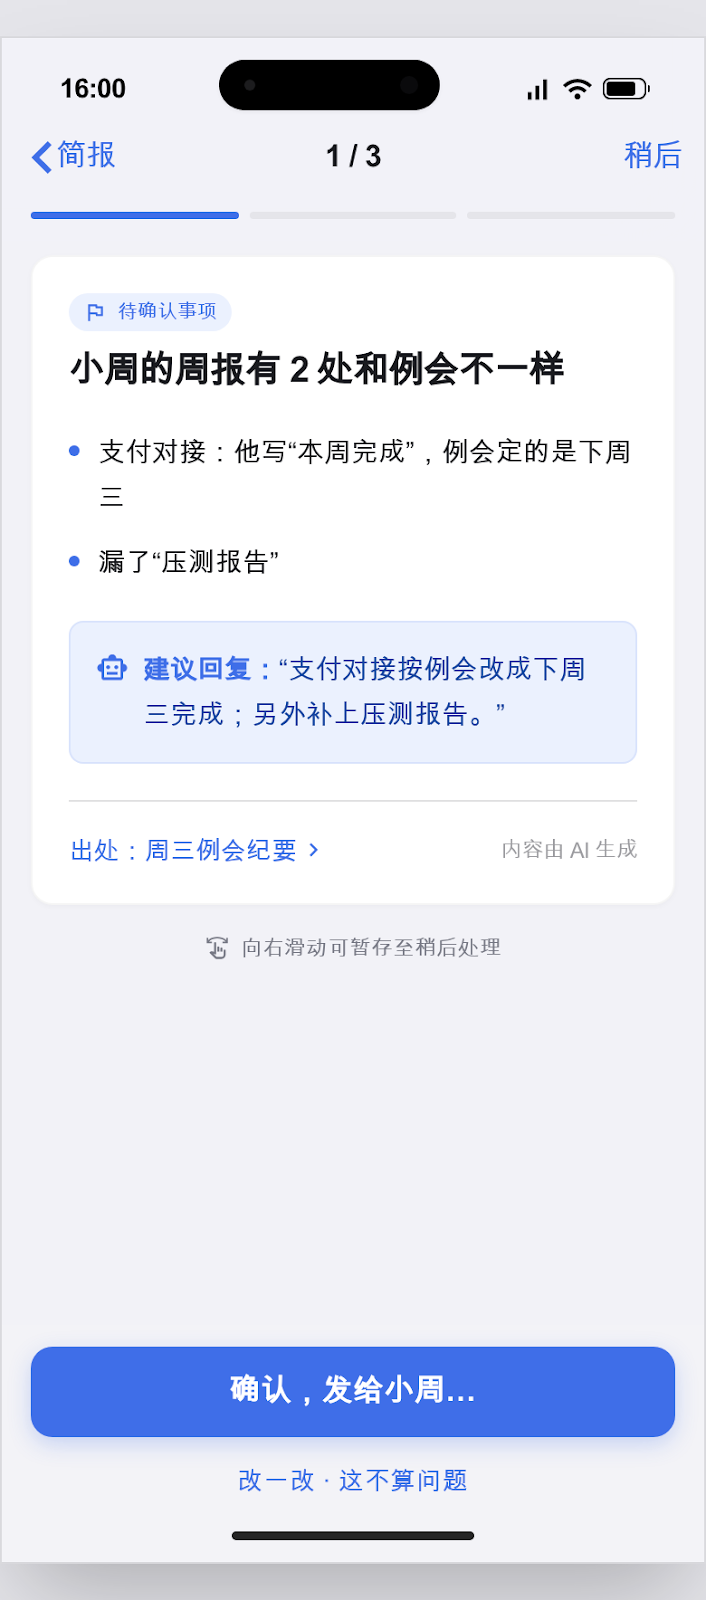
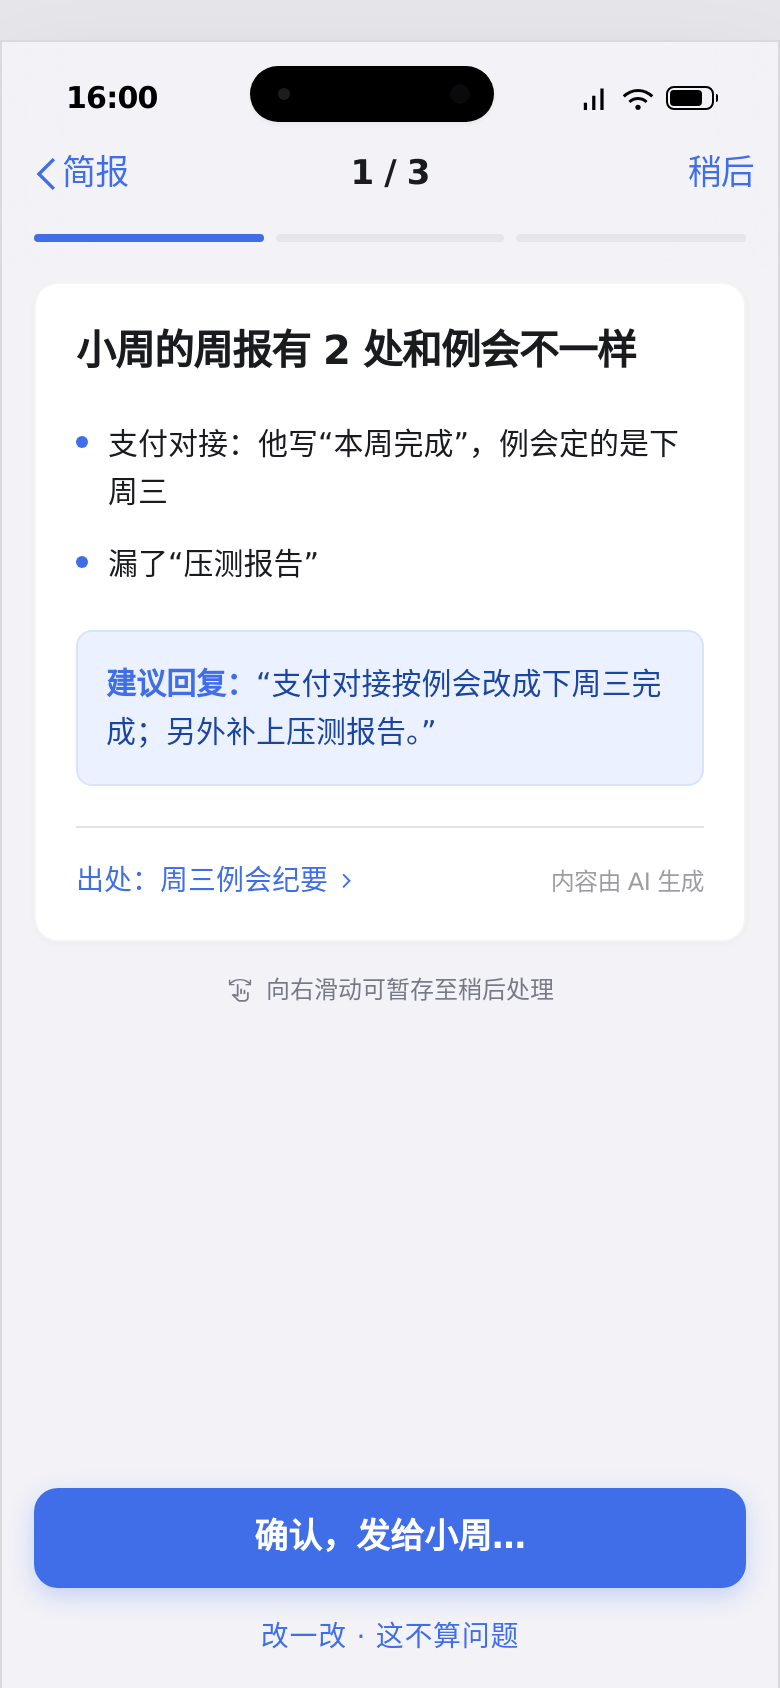
ITER1 v7：app-ios 6 屏按评审意见直接修改（下拉面板、去多余按钮和标签、图标与字体）

diff --git a/public/ITER1/v7-sketch/app-ios/04-下拉面板/code.html b/public/ITER1/v7-sketch/app-ios/04-下拉面板/code.html
@@ -125,68 +125,30 @@
       min-height: max(884px, 100dvh);
     }
   </style>
-  </head>
+  <style id="ios-fix">
+body *:not(.material-symbols-outlined){font-family:-apple-system,BlinkMacSystemFont,"SF Pro Text","PingFang SC","Noto Sans SC",sans-serif !important}
+.material-symbols-outlined{font-variation-settings:'FILL' 0,'wght' 300,'GRAD' 0,'opsz' 24 !important}
+</style>
+</head>
 <body class="bg-background text-on-surface antialiased flex justify-center items-center min-h-screen select-none font-body">
 <!-- iPhone 15 Pro Frame 390x844 -->
-<div class="relative w-[390px] h-[844px] bg-[#F2F2F7] rounded-[54px] shadow-2xl overflow-hidden border-[7px] border-[#2C2C2E] flex flex-col justify-between">
+<div class="relative w-[390px] h-[844px] bg-[#F2F2F7] overflow-hidden flex flex-col justify-between">
 <!-- 1. 背景层：页面 ① 的内容呈现 (带背景毛玻璃虚化感) -->
 <div class="absolute inset-0 z-0 bg-[#F2F2F7] flex flex-col pointer-events-none select-none">
-<!-- 页面 1 Header 占位 -->
-<div class="pt-14 px-4 pb-3 flex justify-between items-center">
-<div class="flex items-center gap-2">
-<div class="w-8 h-8 rounded-full bg-primary-container text-white flex items-center justify-center font-headline text-callout">禾</div>
-<span class="font-title-3 text-title-3 text-on-surface">管家</span>
-</div>
-<div class="w-9 h-9 rounded-full bg-white flex items-center justify-center shadow-sm">
-<span class="material-symbols-outlined text-outline">history</span>
-</div>
-</div>
-<!-- 页面 1 对话/助手卡片流内容模拟 (底层被弱化呈现) -->
-<div class="px-4 space-y-4 pt-3">
-<!-- 欢迎卡片 Bento -->
-<div class="bg-white rounded-2xl p-4 shadow-sm">
-<div class="flex items-center gap-2 mb-2">
-<span class="w-2 h-2 rounded-full bg-[#34C759]"></span>
-<span class="text-caption-1 font-caption-1 text-outline">今天 09:41 · 主动服务已就绪</span>
-</div>
-<div class="text-headline font-headline text-on-surface mb-1">早安，张工</div>
-<div class="text-subheadline font-subheadline text-outline leading-relaxed">
-            今天上午 10:30 有“年度产品架构评审”，准备资料已为您备好。
-          </div>
-</div>
-<!-- Bento Grid 示例 -->
-<div class="grid grid-cols-2 gap-3">
-<div class="bg-white p-3.5 rounded-2xl shadow-sm">
-<div class="text-caption-1 font-caption-1 text-outline mb-1">待办事项</div>
-<div class="text-title-3 font-title-3 text-primary">3 项紧急</div>
-<div class="text-caption-1 font-caption-1 text-on-surface-variant mt-2">已同步飞书日历</div>
-</div>
-<div class="bg-white p-3.5 rounded-2xl shadow-sm">
-<div class="text-caption-1 font-caption-1 text-outline mb-1">资料收集</div>
-<div class="text-title-3 font-title-3 text-secondary">86 份归档</div>
-<div class="text-caption-1 font-caption-1 text-on-surface-variant mt-2">新存 2 个汇报PPT</div>
-</div>
-</div>
-<!-- 助手气泡模拟 -->
-<div class="flex gap-2.5 items-start mt-2">
-<div class="w-7 h-7 rounded-full bg-primary-container text-white flex items-center justify-center font-subheadline text-xs flex-shrink-0 mt-0.5">禾</div>
-<div class="bg-white rounded-2xl rounded-tl-sm p-3.5 shadow-sm max-w-[270px]">
-<p class="text-subheadline font-subheadline text-on-surface">需要我把今天的要点梳理出来发给团队吗？</p>
-</div>
-</div>
-</div>
+<div class="pt-14 px-4 pb-2 flex items-center"><div class="flex items-center gap-2 bg-[#EBF1FE] rounded-full pl-1 pr-3 py-1"><div class="w-6 h-6 rounded-full bg-primary-container text-white flex items-center justify-center text-[12px]">禾</div><span class="text-[14px] text-primary-container font-semibold">管家 ▾</span></div></div>
+<div class="px-5 pt-14"><div class="text-[28px] font-bold text-on-surface">下午好，陆航</div><div class="text-[17px] text-on-surface mt-1 leading-relaxed">有 <b class="text-primary-container">3 件</b>我已经备好了办法，<br>等你确认一下，大约 2 分钟。</div></div>
+<div class="mx-4 mt-4 bg-white rounded-xl divide-y divide-[rgba(60,60,67,0.12)]">
+<div class="px-4 py-3 text-[16px]">1　小周的周报</div><div class="px-4 py-3 text-[16px]">2　客户问能否提前上线</div><div class="px-4 py-3 text-[16px]">3　团队周报，18:00 前交</div></div>
+<div class="absolute left-4 right-4 bottom-[110px] flex gap-2"><div class="flex-[7] h-[50px] rounded-xl bg-primary-container text-white flex items-center justify-center text-[17px] font-semibold">开始</div><div class="flex-[3] h-[50px] rounded-xl bg-[#E5E5EA] text-primary-container flex items-center justify-center text-[17px] font-semibold">说一句</div></div>
 </div>
 <!-- 2. 全局半透明深色压暗遮罩 (rgba(0,0,0,0.4)) -->
 <div class="absolute inset-0 bg-black/40 z-10 backdrop-blur-[2px] transition-opacity duration-300"></div>
 <!-- 3. iOS 原生状态栏与灵动岛 (Dynamic Island) 处于遮罩上方或穿透保持清晰 -->
 <div class="relative z-30 pt-3 px-7 flex justify-between items-center text-white font-headline text-footnote tracking-tight">
-<span class="font-headline text-[15px] font-semibold text-white drop-shadow-sm">09:41</span>
+<span class="font-headline text-[15px] font-semibold text-white drop-shadow-sm">16:00</span>
 <!-- 灵动岛 (Dynamic Island 126x36) -->
 <div class="w-[126px] h-[36px] bg-black rounded-full absolute left-1/2 -translate-x-1/2 top-2.5 flex items-center justify-between px-3 shadow-md border border-white/10">
-<div class="flex items-center gap-1.5">
-<div class="w-2.5 h-2.5 rounded-full bg-[#34C759] animate-pulse"></div>
-<span class="text-[11px] text-white/90 font-medium">管家运行</span>
-</div>
+<div></div>
 <div class="w-3 h-3 rounded-full bg-[#1C1C1E] border border-white/20 flex items-center justify-center">
 <div class="w-1.5 h-1.5 rounded-full bg-[#0A84FF]"></div>
 </div>
@@ -210,10 +172,7 @@
 <span class="text-subheadline font-headline text-on-surface font-semibold tracking-tight">管家</span>
 <span class="text-[10px] text-on-surface-variant font-bold leading-none ml-[-2px]">▲</span>
 </button>
-<!-- 右侧辅助按钮 (半透浅白) -->
-<div class="w-8 h-8 rounded-full bg-white/20 backdrop-blur-md flex items-center justify-center text-white active:opacity-70 transition-opacity">
-<span class="material-symbols-outlined text-[20px]">more_horiz</span>
-</div>
+
 </div>
 <!-- 从顶部顺畅滑出的白色圆角面板 (不透明纯白 #FFFFFF，圆角 16px，自然柔和原生系统阴影) -->
 <div class="mx-4 mt-1 bg-white rounded-[16px] ios-drop-shadow overflow-hidden border border-black/5 animate-in fade-in slide-in-from-top-4 duration-200">
@@ -222,7 +181,7 @@
 <div class="h-9 bg-[#E5E5EA] rounded-[10px] flex items-center px-3 gap-2">
 <span class="material-symbols-outlined text-[#8E8E93] text-[18px]">search</span>
 <input class="w-full bg-transparent border-0 p-0 text-subheadline font-subheadline text-on-surface placeholder-[#8E8E93] focus:ring-0 text-[14px]" placeholder="搜资料、事情、说过的话…" readonly="" type="text"/>
-<span class="material-symbols-outlined text-[#8E8E93] text-[18px] cursor-pointer">mic</span>
+
 </div>
 </div>
 <!-- 5 行 iOS Inset Grouped 风格列表项 -->
@@ -310,7 +269,7 @@
 <div class="bg-surface/85 backdrop-blur-2xl flex justify-around items-center px-4 pt-2 pb-2 border-t border-outline-variant/20 shadow-lg">
 <!-- 标签 1: 管家 (激活状态) -->
 <div class="flex flex-col items-center justify-center text-primary cursor-pointer">
-<span class="material-symbols-outlined text-[24px]">smart_toy</span>
+<span class="material-symbols-outlined text-[24px]">home</span>
 <span class="text-caption-2 font-caption-2 mt-0.5 font-semibold">管家</span>
 </div>
 <!-- 标签 2: 盯着 (未激活) -->

diff --git a/public/ITER1/v7-sketch/app-ios/03-结束页/code.html b/public/ITER1/v7-sketch/app-ios/03-结束页/code.html
@@ -145,7 +145,11 @@
       min-height: max(884px, 100dvh);
     }
   </style>
-  </head>
+  <style id="ios-fix">
+body *:not(.material-symbols-outlined){font-family:-apple-system,BlinkMacSystemFont,"SF Pro Text","PingFang SC","Noto Sans SC",sans-serif !important}
+.material-symbols-outlined{font-variation-settings:'FILL' 0,'wght' 300,'GRAD' 0,'opsz' 24 !important}
+</style>
+</head>
 <body class="flex justify-center items-center min-h-screen bg-surface-dim/40 antialiased p-0 sm:p-4">
 <!-- Mobile Viewport Container: 390 x 844 iPhone Canvas -->
 <div class="relative w-full max-w-[390px] h-[844px] bg-[#F2F2F7] overflow-hidden flex flex-col justify-between shadow-2xl sm:rounded-[50px] border border-black/5">
@@ -189,10 +193,7 @@
 <span class="text-[14px] font-medium text-on-surface tracking-tight ml-0.5">管家</span>
 <span class="material-symbols-outlined text-[16px] text-outline leading-none" data-icon="keyboard_arrow_down">keyboard_arrow_down</span>
 </button>
-<!-- Trailing Action -->
-<button class="tap-scale w-8 h-8 rounded-full flex items-center justify-center text-on-surface-variant hover:text-on-surface active:opacity-70 transition-opacity">
-<span class="material-symbols-outlined text-[20px]" data-icon="more_horiz">more_horiz</span>
-</button>
+
 </div>
 <!-- Main Content Canvas: High-end iOS Quiet Completion View -->
 <main class="flex-1 flex flex-col justify-center px-4 -mt-6">
@@ -243,7 +244,7 @@
 <nav class="shrink-0 relative w-full bg-surface/85 backdrop-blur-2xl px-4 pt-2 pb-7 flex justify-around items-center z-50">
 <!-- Tab 1: 管家 (Active) -->
 <button aria-label="管家" class="flex flex-col items-center justify-center text-primary tap-scale w-16">
-<span class="material-symbols-outlined text-[23px] mb-0.5" data-icon="smart_toy" data-weight="fill">smart_toy</span>
+<span class="material-symbols-outlined text-[23px] mb-0.5" data-icon="home" data-weight="fill">home</span>
 <span class="font-caption-2 text-caption-2 font-medium tracking-tight">管家</span>
 </button>
 <!-- Tab 2: 盯着 (Inactive) -->

diff --git a/public/ITER1/v7-sketch/app-ios/02-逐件过/code.html b/public/ITER1/v7-sketch/app-ios/02-逐件过/code.html
@@ -134,7 +134,11 @@
       min-height: max(884px, 100dvh);
     }
   </style>
-  </head>
+  <style id="ios-fix">
+body *:not(.material-symbols-outlined){font-family:-apple-system,BlinkMacSystemFont,"SF Pro Text","PingFang SC","Noto Sans SC",sans-serif !important}
+.material-symbols-outlined{font-variation-settings:'FILL' 0,'wght' 300,'GRAD' 0,'opsz' 24 !important}
+</style>
+</head>
 <body class="h-full flex items-center justify-center p-0 md:p-6 overflow-hidden select-none">
 <!-- iOS Device Frame Container (390 x 844) -->
 <main class="ios-shell relative flex flex-col justify-between overflow-hidden shadow-2xl md:rounded-[54px] border border-black/10">
@@ -195,10 +199,7 @@
 <section class="w-full bg-surface-container-lowest rounded-xl p-5 shadow-[0_1px_3px_rgba(0,0,0,0.03)] border border-black/[0.04] flex flex-col gap-4">
 <!-- Card Main Title -->
 <div class="space-y-1">
-<div class="inline-flex items-center gap-1.5 px-2 py-0.5 rounded-full bg-[#EBF1FE] text-primary-container text-[11px] font-caption-2 font-medium mb-1">
-<span class="material-symbols-outlined text-[13px]" data-icon="flag">flag</span>
-<span>待确认事项</span>
-</div>
+
 <h2 class="text-title-3 font-title-3 text-on-surface leading-snug tracking-tight">
             小周的周报有 2 处和例会不一样
           </h2>
@@ -223,7 +224,7 @@
 <!-- Recommended Reply Container (Light blue tint box) -->
 <div class="rounded-lg bg-[#EBF1FE] p-3.5 mt-1 border border-primary-container/10">
 <div class="flex items-start gap-2">
-<span class="material-symbols-outlined text-primary-container text-[18px] shrink-0 mt-0.5" data-icon="smart_toy">smart_toy</span>
+
 <p class="font-subheadline text-subheadline text-[#1A45A0] leading-relaxed select-text">
 <span class="font-semibold text-primary-container">建议回复：</span>“支付对接按例会改成下周三完成；另外补上压测报告。”
             </p>

diff --git a/public/ITER1/v7-sketch/app-ios/05-我的/code.html b/public/ITER1/v7-sketch/app-ios/05-我的/code.html
@@ -128,7 +128,11 @@
       min-height: max(884px, 100dvh);
     }
   </style>
-  </head>
+  <style id="ios-fix">
+body *:not(.material-symbols-outlined){font-family:-apple-system,BlinkMacSystemFont,"SF Pro Text","PingFang SC","Noto Sans SC",sans-serif !important}
+.material-symbols-outlined{font-variation-settings:'FILL' 0,'wght' 300,'GRAD' 0,'opsz' 24 !important}
+</style>
+</head>
 <body class="bg-surface-container text-on-surface antialiased flex justify-center items-start min-h-screen">
 <!-- iPhone 15/16 Pro Frame Simulation (390 x 844) -->
 <main class="w-full max-w-[390px] min-h-[844px] bg-[#F2F2F7] relative flex flex-col overflow-hidden select-none pb-28">
@@ -155,9 +159,7 @@
 <div class="flex items-center justify-between">
 <h1 class="text-large-title font-large-title text-on-surface tracking-tight">我的</h1>
 <!-- Subtle Secondary Action or Cloud Sync Icon -->
-<button aria-label="更多操作" class="w-8 h-8 rounded-full flex items-center justify-center text-outline active:opacity-70 transition-opacity" type="button">
-<span class="material-symbols-outlined text-[20px]" data-icon="more_horiz">more_horiz</span>
-</button>
+
 </div>
 </section>
 <!-- Scrollable Content Canvas -->
@@ -256,7 +258,7 @@
 <nav aria-label="底栏导航" class="fixed bottom-0 left-1/2 -translate-x-1/2 w-full max-w-[390px] z-50 bg-[#F9F9F9]/85 dark:bg-inverse-surface/85 backdrop-blur-2xl px-4 pt-2 pb-8 flex justify-around items-center">
 <!-- Tab 1: 管家 (Inactive) -->
 <a class="flex flex-col items-center justify-center text-on-surface-variant/70 active:opacity-70 transition-opacity" href="#butler">
-<span class="material-symbols-outlined text-[24px]" data-icon="smart_toy">smart_toy</span>
+<span class="material-symbols-outlined text-[24px]" data-icon="home">home</span>
 <span class="text-caption-2 font-caption-2 mt-0.5">管家</span>
 </a>
 <!-- Tab 2: 盯着 (Inactive) -->

diff --git a/public/ITER1/v7-sketch/app-ios/01-简报封面/code.html b/public/ITER1/v7-sketch/app-ios/01-简报封面/code.html
@@ -132,7 +132,11 @@
       min-height: max(884px, 100dvh);
     }
   </style>
-  </head>
+  <style id="ios-fix">
+body *:not(.material-symbols-outlined){font-family:-apple-system,BlinkMacSystemFont,"SF Pro Text","PingFang SC","Noto Sans SC",sans-serif !important}
+.material-symbols-outlined{font-variation-settings:'FILL' 0,'wght' 300,'GRAD' 0,'opsz' 24 !important}
+</style>
+</head>
 <body class="flex items-center justify-center min-h-screen p-0 sm:p-4 text-on-surface">
 <!-- iPhone Container (390 x 844 frame standard) -->
 <div class="relative w-full max-w-[390px] h-[844px] bg-[#F2F2F7] flex flex-col justify-between overflow-hidden sm:rounded-[50px] sm:shadow-2xl sm:border-[8px] sm:border-[#1E1E1E]">
@@ -252,7 +256,7 @@
 <div class="flex justify-around items-center px-4 pt-2 pb-1">
 <!-- Tab 1: 管家 (Active 选中激活) -->
 <button class="flex flex-col items-center justify-center text-primary-container active:opacity-70 transition-opacity duration-150 flex-1">
-<span class="material-symbols-outlined text-[24px]" style="font-variation-settings: 'FILL' 1;">smart_toy</span>
+<span class="material-symbols-outlined text-[24px]" style="font-variation-settings: 'FILL' 1;">home</span>
 <span class="font-caption-2 text-caption-2 mt-0.5 font-medium">管家</span>
 </button>
 <!-- Tab 2: 盯着 (Inactive) -->

diff --git a/public/ITER1/v7-sketch/app-ios.html b/public/ITER1/v7-sketch/app-ios.html
@@ -30,7 +30,7 @@
 </div>
 <div class="note">
   <b>已确认（2026-11-05）：</b>采用 Stitch A 套（冷灰 iOS）；暖米色 B 套不用。逐件过页面加入<b>右滑暂存</b>：向右滑动 = 暂存到稍后处理，与右上角“稍后”效果相同，两种方式并存。<br>
-  <b>待 Stitch 再改：</b>④ 下拉面板去掉多画的手机外框、灵动岛“管家运行”、麦克风和右上角“…”，时间改 16:00，背景露出压暗的封面；③⑤ 去掉右上角“…”；② 去掉“待确认事项”标签；图标改 iOS 细线风格，底部“管家”不用机器人图标；字体用苹方 / SF Pro。<br>
+  <b>已在 Stitch 导出稿上直接修改（2026-11-05）：</b>④ 去掉多画的手机外框、灵动岛“管家运行”、搜索框麦克风和右上角“…”，时间改 16:00，背景换成压暗的简报封面；③⑤ 去掉右上角“…”；② 去掉“待确认事项”标签和建议回复前的机器人图标；全部页面底部“管家”图标由机器人改为房子，图标改细线，字体统一为苹方 / SF Pro。<br>
   页面代码为 Stitch 导出（依赖 Tailwind CDN），只作界面参考，不可点击。
 </div>
 </body>

diff --git a/public/ITER1/v7-sketch/app-ios/06-隐私与个人信息/code.html b/public/ITER1/v7-sketch/app-ios/06-隐私与个人信息/code.html
@@ -141,7 +141,11 @@
       min-height: max(884px, 100dvh);
     }
   </style>
-  </head>
+  <style id="ios-fix">
+body *:not(.material-symbols-outlined){font-family:-apple-system,BlinkMacSystemFont,"SF Pro Text","PingFang SC","Noto Sans SC",sans-serif !important}
+.material-symbols-outlined{font-variation-settings:'FILL' 0,'wght' 300,'GRAD' 0,'opsz' 24 !important}
+</style>
+</head>
 <body class="bg-[#F2F2F7] text-on-surface flex justify-center items-start min-h-screen select-none antialiased py-0 sm:py-8">
 <!-- iPhone 15/14 Pro Viewport Container (390 x 844) -->
 <main class="w-full max-w-[390px] min-h-[844px] bg-[#F2F2F7] relative flex flex-col shadow-2xl sm:rounded-[54px] overflow-hidden border-0 sm:border-[8px] sm:border-[#1F1F24]">
